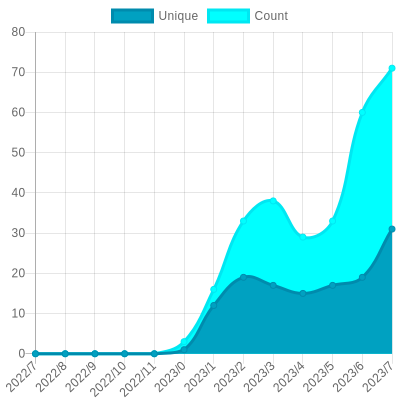
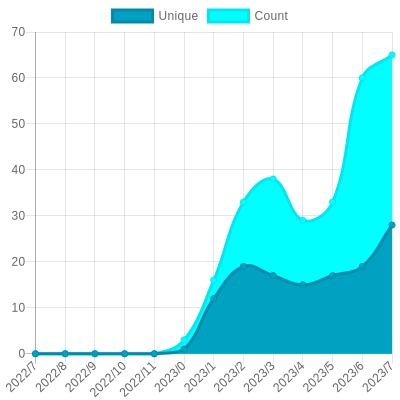
Update views

diff --git a/readme/445373339/year.md b/readme/445373339/year.md
@@ -23,10 +23,10 @@
 			<code>2022/8/1</code>
 		</td>
 		<td>
-			<code>31</code>
+			<code>28</code>
 		</td>
 		<td>
-			<code>71</code>
+			<code>65</code>
 		</td>
 	</tr>
 	<tr>
@@ -164,7 +164,7 @@
 </table>
 
 </details>
-<small><i>Last updated on 2022/8/18 2:10 AM UTC</i></small>
+<small><i>Last updated on 2022/8/18 12:42 PM UTC</i></small>
 
 ### SVG Badge
 [![Image of Repository_Views](https://github.com/Sabyasachi-Seal/Repository_Views/blob/master/svg/445373339/badge.svg)](https://github.com/Sabyasachi-Seal/Repository_Views/blob/master/readme/445373339/week.md)

diff --git a/readme/402411478/year.md b/readme/402411478/year.md
@@ -164,7 +164,7 @@
 </table>
 
 </details>
-<small><i>Last updated on 2022/8/18 2:13 AM UTC</i></small>
+<small><i>Last updated on 2022/8/18 12:45 PM UTC</i></small>
 
 ### SVG Badge
 [![Image of Repository_Views](https://github.com/Sabyasachi-Seal/Repository_Views/blob/master/svg/402411478/badge.svg)](https://github.com/Sabyasachi-Seal/Repository_Views/blob/master/readme/402411478/week.md)

diff --git a/readme/403671500/year.md b/readme/403671500/year.md
@@ -164,7 +164,7 @@
 </table>
 
 </details>
-<small><i>Last updated on 2022/8/18 2:10 AM UTC</i></small>
+<small><i>Last updated on 2022/8/18 12:42 PM UTC</i></small>
 
 ### SVG Badge
 [![Image of Repository_Views](https://github.com/Sabyasachi-Seal/Repository_Views/blob/master/svg/403671500/badge.svg)](https://github.com/Sabyasachi-Seal/Repository_Views/blob/master/readme/403671500/week.md)

diff --git a/readme/429010160/year.md b/readme/429010160/year.md
@@ -164,7 +164,7 @@
 </table>
 
 </details>
-<small><i>Last updated on 2022/8/18 2:12 AM UTC</i></small>
+<small><i>Last updated on 2022/8/18 12:44 PM UTC</i></small>
 
 ### SVG Badge
 [![Image of Repository_Views](https://github.com/Sabyasachi-Seal/Repository_Views/blob/master/svg/429010160/badge.svg)](https://github.com/Sabyasachi-Seal/Repository_Views/blob/master/readme/429010160/week.md)

diff --git a/readme/442779945/year.md b/readme/442779945/year.md
@@ -164,7 +164,7 @@
 </table>
 
 </details>
-<small><i>Last updated on 2022/8/18 2:12 AM UTC</i></small>
+<small><i>Last updated on 2022/8/18 12:44 PM UTC</i></small>
 
 ### SVG Badge
 [![Image of Repository_Views](https://github.com/Sabyasachi-Seal/Repository_Views/blob/master/svg/442779945/badge.svg)](https://github.com/Sabyasachi-Seal/Repository_Views/blob/master/readme/442779945/week.md)

diff --git a/readme/443268905/year.md b/readme/443268905/year.md
@@ -164,7 +164,7 @@
 </table>
 
 </details>
-<small><i>Last updated on 2022/8/18 2:12 AM UTC</i></small>
+<small><i>Last updated on 2022/8/18 12:43 PM UTC</i></small>
 
 ### SVG Badge
 [![Image of Repository_Views](https://github.com/Sabyasachi-Seal/Repository_Views/blob/master/svg/443268905/badge.svg)](https://github.com/Sabyasachi-Seal/Repository_Views/blob/master/readme/443268905/week.md)

diff --git a/readme/443359438/year.md b/readme/443359438/year.md
@@ -164,7 +164,7 @@
 </table>
 
 </details>
-<small><i>Last updated on 2022/8/18 2:15 AM UTC</i></small>
+<small><i>Last updated on 2022/8/18 12:46 PM UTC</i></small>
 
 ### SVG Badge
 [![Image of Repository_Views](https://github.com/Sabyasachi-Seal/Repository_Views/blob/master/svg/443359438/badge.svg)](https://github.com/Sabyasachi-Seal/Repository_Views/blob/master/readme/443359438/week.md)

diff --git a/readme/443469139/year.md b/readme/443469139/year.md
@@ -164,7 +164,7 @@
 </table>
 
 </details>
-<small><i>Last updated on 2022/8/18 2:13 AM UTC</i></small>
+<small><i>Last updated on 2022/8/18 12:44 PM UTC</i></small>
 
 ### SVG Badge
 [![Image of Repository_Views](https://github.com/Sabyasachi-Seal/Repository_Views/blob/master/svg/443469139/badge.svg)](https://github.com/Sabyasachi-Seal/Repository_Views/blob/master/readme/443469139/week.md)

diff --git a/readme/444277983/year.md b/readme/444277983/year.md
@@ -164,7 +164,7 @@
 </table>
 
 </details>
-<small><i>Last updated on 2022/8/18 2:10 AM UTC</i></small>
+<small><i>Last updated on 2022/8/18 12:42 PM UTC</i></small>
 
 ### SVG Badge
 [![Image of Repository_Views](https://github.com/Sabyasachi-Seal/Repository_Views/blob/master/svg/444277983/badge.svg)](https://github.com/Sabyasachi-Seal/Repository_Views/blob/master/readme/444277983/week.md)

diff --git a/readme/448198858/year.md b/readme/448198858/year.md
@@ -164,7 +164,7 @@
 </table>
 
 </details>
-<small><i>Last updated on 2022/8/18 2:13 AM UTC</i></small>
+<small><i>Last updated on 2022/8/18 12:45 PM UTC</i></small>
 
 ### SVG Badge
 [![Image of Repository_Views](https://github.com/Sabyasachi-Seal/Repository_Views/blob/master/svg/448198858/badge.svg)](https://github.com/Sabyasachi-Seal/Repository_Views/blob/master/readme/448198858/week.md)

diff --git a/readme/450329332/year.md b/readme/450329332/year.md
@@ -164,7 +164,7 @@
 </table>
 
 </details>
-<small><i>Last updated on 2022/8/18 2:13 AM UTC</i></small>
+<small><i>Last updated on 2022/8/18 12:44 PM UTC</i></small>
 
 ### SVG Badge
 [![Image of Repository_Views](https://github.com/Sabyasachi-Seal/Repository_Views/blob/master/svg/450329332/badge.svg)](https://github.com/Sabyasachi-Seal/Repository_Views/blob/master/readme/450329332/week.md)

diff --git a/readme/452747713/year.md b/readme/452747713/year.md
@@ -164,7 +164,7 @@
 </table>
 
 </details>
-<small><i>Last updated on 2022/8/18 2:12 AM UTC</i></small>
+<small><i>Last updated on 2022/8/18 12:44 PM UTC</i></small>
 
 ### SVG Badge
 [![Image of Repository_Views](https://github.com/Sabyasachi-Seal/Repository_Views/blob/master/svg/452747713/badge.svg)](https://github.com/Sabyasachi-Seal/Repository_Views/blob/master/readme/452747713/week.md)
